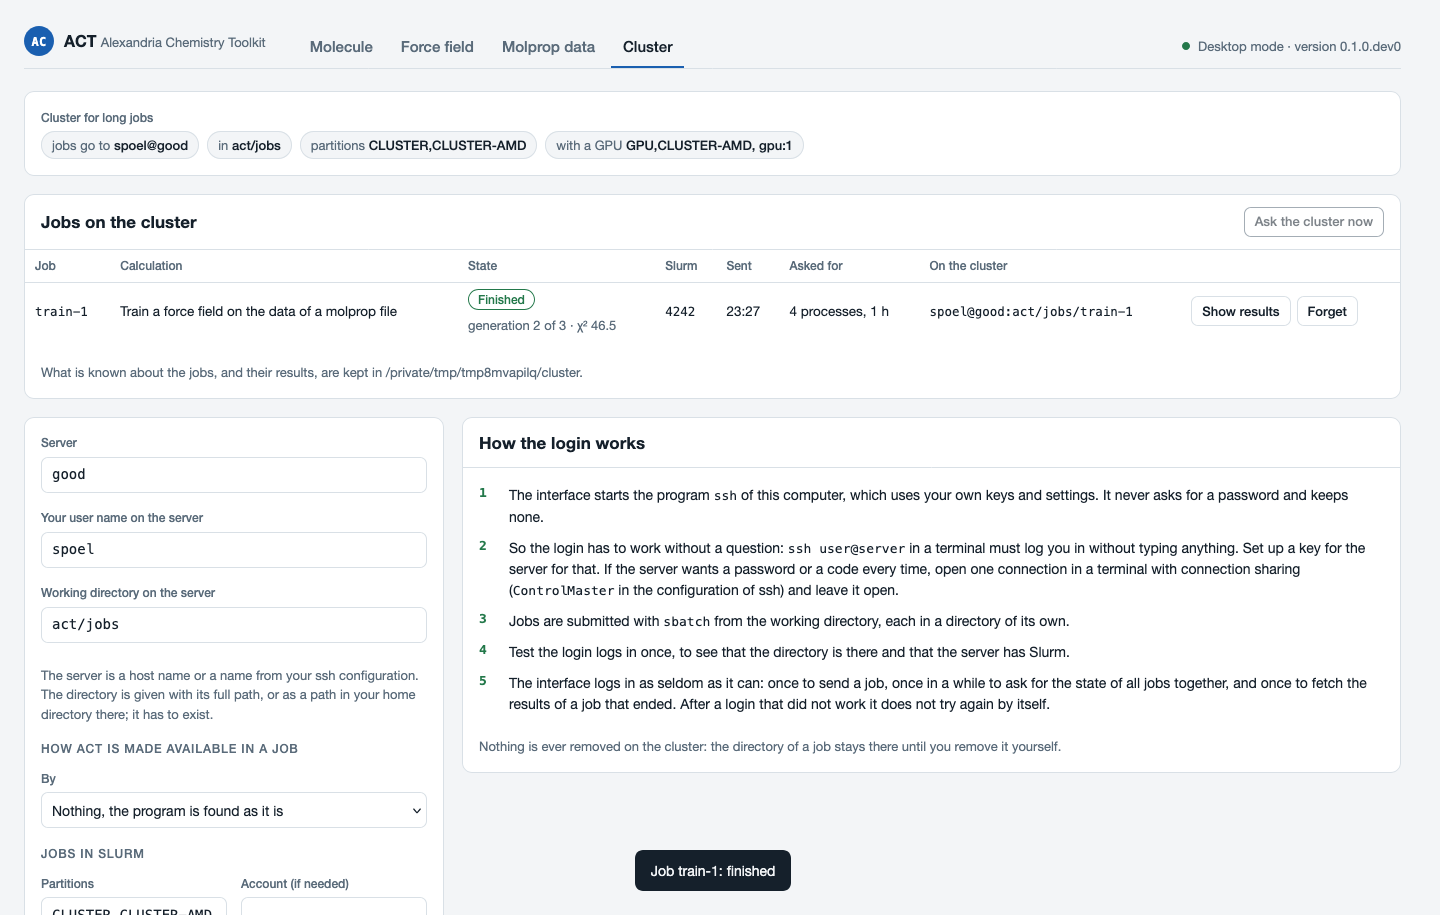
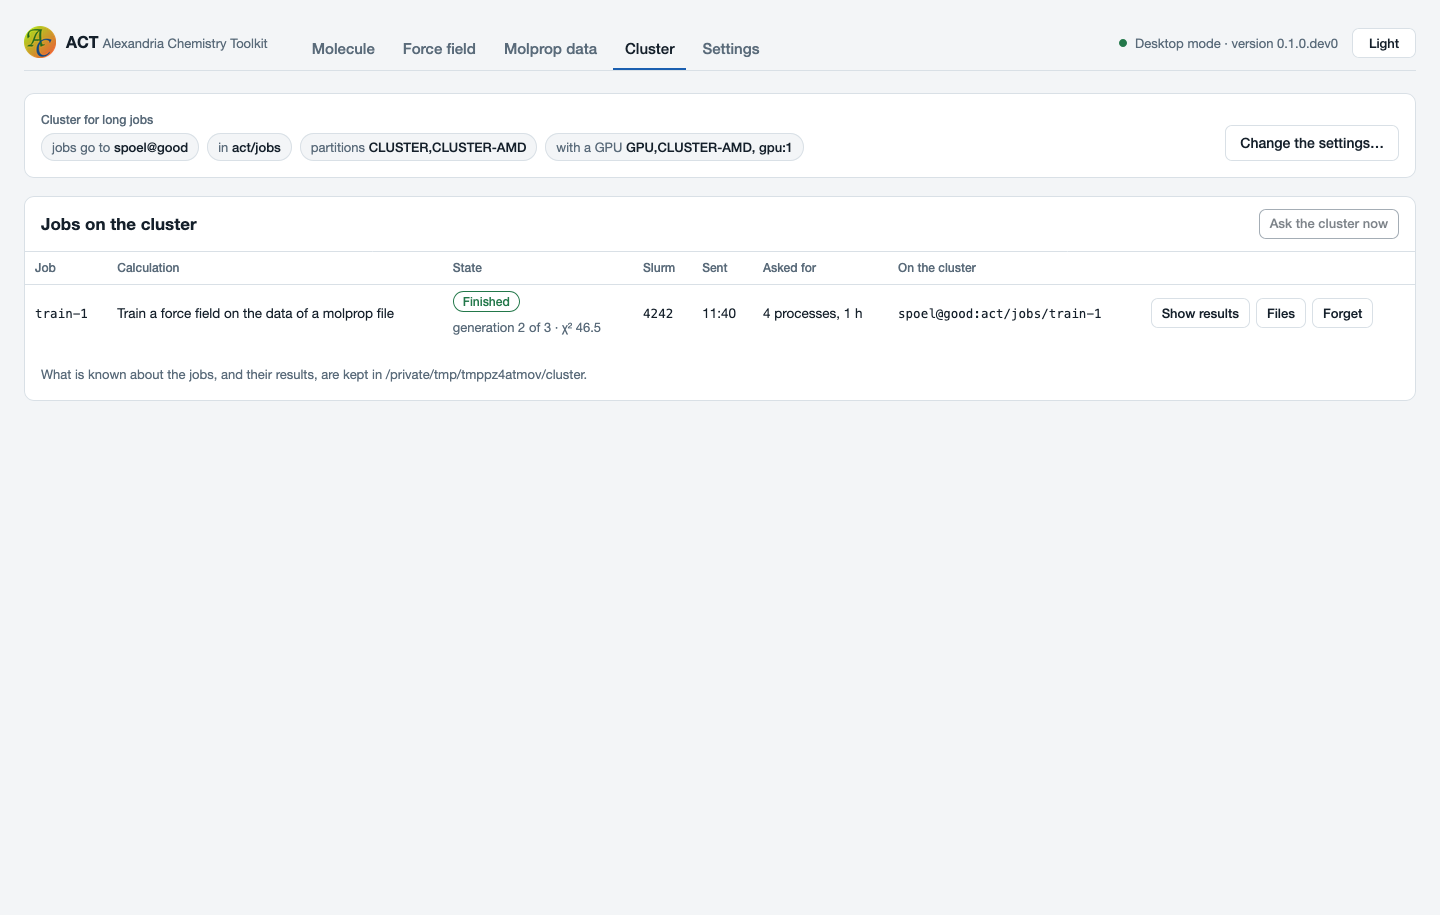
docs(gui): the interface of 1.95, with new pictures
The chapter on ACT-GUI describes the conda package act-gui and the
programs act-gui and actgui; the tabs Dimer scan and Second virial and
the spectrum as an xvg file; the fixed parameters of Generate and the
histograms of Geometry; the validation, the properties and the
calculations that are there twice in the molprop workspace; the tab
Settings with the screen modes; and the jobs on the cluster for the
second virial coefficient and OpenMM, with all their output files. The
pictures are new, taken by the tests of ACT-GUI in the browser, with two
more: a dimer scan and a histogram of a bond type.

diff --git a/docs/manual/userman/gui.rst b/docs/manual/userman/gui.rst
@@ -4,7 +4,7 @@
 The graphical user interface
 *****************************
 
-ACT-GUI is a user interface for ACT that runs in a web browser. A small server on your own computer runs the commands of *alexandria* through the Python package of :ref:`sec-python`, and a page shows the results: molecules in three dimensions with their charges, spectra, force fields, and how well a force field reproduces reference data. Long calculations can be sent from the page to a cluster on which you have an account. The interface is a repository of its own, `ACT-GUI`_, which takes over from the program *actgui* of ACT-utilities.
+ACT-GUI is a user interface for ACT that runs in a web browser. A small server on your own computer runs the commands of *alexandria* through the Python package of :ref:`sec-python`, and a page shows the results: molecules in three dimensions with their charges, spectra, force fields, and how well a force field reproduces reference data. Long calculations can be sent from the page to a cluster on which you have an account. The interface is a repository of its own, `ACT-GUI`_, which replaces the program *actgui* of ACT-utilities.
 
 Everything the interface does, it does by running *alexandria* with options that it shows or that this manual describes, so a calculation that was tried in the interface can be repeated on the command line or in a script.
 
@@ -13,14 +13,23 @@ Everything the interface does, it does by running *alexandria* with options that
 ========================
 Installing and starting
 ========================
-The interface needs ACT with its Python package, and Python 3.9 or newer with the packages *fastapi* and *uvicorn*. To save plots as PDF files it uses `plotXVG`_ when that is installed. From a copy of the repository:
+The conda package *act-gui* brings everything along: ACT with its Python package (the package *alexandria-python*), the web server and `plotXVG`_ for PDF files.
+
+.. code-block:: bash
+
+   conda install -c alexandriachemistry -c conda-forge act-gui
+   act-gui
+
+Without conda the interface needs ACT with its Python package, and Python 3.9 or newer with the packages *fastapi* and *uvicorn*; to save plots as PDF files it uses plotXVG when that is installed. From a copy of the repository:
 
 .. code-block:: bash
 
    pip install ".[plots]"
    act-gui
 
-*act-gui*, or *python -m act_gui*, prints an address and opens it in the browser. The server listens on your own computer only, and the address has a key without which it does not answer. Uploaded files and results are kept in a temporary directory that is removed when the program ends; *--data DIR* keeps them in a directory. *--no-browser* does not open a browser and *--port* chooses the port.
+The script *actgui* in the repository starts the interface from there without installing it, with the Python of the directory *.venv* there if there is one; the Python package of ACT and *alexandria* are then found through *PYTHONPATH* and *ACT_ALEXANDRIA*. An installed interface also has the program *actgui*, the name of the program it replaces.
+
+*act-gui*, *actgui* or *python -m act_gui* prints an address and opens it in the browser. The server listens on your own computer only, and the address has a key without which it does not answer. Uploaded files and results are kept in a temporary directory that is removed when the program ends; *--data DIR* keeps them in a directory. *--no-browser* does not open a browser and *--port* chooses the port.
 
 The interface finds *alexandria* as the Python package does: the program the package was installed with, or the one in the environment variable *ACT_ALEXANDRIA*. Calculations on more than one process need *mpirun*, *mpiexec* or *srun* in the *PATH*, or the launcher in *ACT_MPIEXEC*.
 
@@ -33,9 +42,11 @@ A molecule is given as a SMILES string or as a file, and is read with the defaul
 
 * *Charges*: the charges and the topology (*alexandria gentop*).
 * *Minimize*: an energy minimization (*minimize*), with the minimized structure on top of the original one, the RMSD and the energy terms.
-* *Normal modes*: the vibrations (*nma*) with the infrared spectrum, the animated modes and the thermochemistry.
+* *Normal modes*: the vibrations (*nma*) with the infrared spectrum, the animated modes and the thermochemistry. The spectrum can be saved as a PDF file or as the xvg file of *nma*.
 * *Simulate*: a short molecular dynamics simulation (*simulate*), with the energies plotted while it runs and the trajectory animated afterwards.
-* *OpenMM*: an archive with which the molecule is simulated with OpenMM and the same force field, see :ref:`sec-simulations`.
+* *OpenMM*: an archive with which the molecule is simulated with OpenMM and the same force field, see :ref:`sec-simulations`. With a cluster set, the simulation itself can run there (:ref:`sec-gui-cluster`).
+* *Dimer scan*: for a structure of two compounds, the interaction energy as a function of the distance, as the script *dimer_scan* of ACT-utilities computes it (:numref:`fig-gui-dimer-scan`). An atom of each compound is chosen (the closest pair is proposed), and for each distance the second compound is moved along the line between them and the dimer is minimized with these two atoms frozen, optionally with the bond lengths constrained. The plot grows while the scan runs; a click on a point shows the minimized dimer at that distance.
+* *Second virial*: the second virial coefficient of a dimer, B2(T), with its classical part and the corrections for the force and the torque (*alexandria b2*), on several processes or on a cluster.
 
 .. figure:: ../images/gui-molecule.png
    :name: fig-gui-molecule
@@ -44,14 +55,21 @@ A molecule is given as a SMILES string or as a file, and is read with the defaul
 
    The molecule workspace after a normal mode analysis of acetone. The atoms are coloured by charge; a click on a line under the spectrum or on a row of the table animates that vibration.
 
+.. figure:: ../images/gui-dimer-scan.png
+   :name: fig-gui-dimer-scan
+   :width: 100%
+   :align: center
+
+   A scan of the water dimer: the interaction energy against the distance between the two atoms that are frozen, and the minimized dimer at the point that was clicked.
+
 =========================
 The force field workspace
 =========================
 This workspace has one force field at a time, which is made there or opened from a file. Each step writes a new file that can be saved and that the other workspaces can use.
 
-* *Generate* makes a new force field with *alexandria gen_ff* from a few choices: the charge model, the potentials with their combination rules, the atom types and which of them get a shell, and virtual sites.
+* *Generate* makes a new force field with *alexandria gen_ff* from a few choices: the charge model, the potentials with their combination rules, the atom types and which of them get a shell, and virtual sites. Parameters with a known value are fixed at that value from a file with a line *interaction|potential|atom type|parameter|value|unit* for each.
 * *Virtual sites* defines sites by picking two, three or four atoms of a molecule in the viewer and choosing the kind of site; the site is shown where it would be. The sites can be saved in the file format of *gen_ff -vs*, and such a file can be opened.
-* *Geometry* takes bond lengths, angles and dihedral angles from the compounds of a molprop file (*geometry_ff*): a file of its own, or the file of the molprop workspace with the compounds that are ticked there.
+* *Geometry* takes bond lengths, angles and dihedral angles from the compounds of a molprop file (*geometry_ff*): a file of its own, or the file of the molprop workspace with the compounds that are ticked there. A histogram of each bond, angle or dihedral type shows the values (:numref:`fig-gui-geometry`); a click on a bar lists the compounds, calculations and atoms that the values in it come from, which helps to find a structure that is not right.
 * *Edit and validate* lists the parameters with their value, bounds and whether they are trained (:numref:`fig-gui-forcefield`), changes them with *edit_ff*, and shows the problems that *edit_ff -validate* finds. Of a particle type the charge and the width of its distribution can be changed, not the mass.
 * *Compare* lists what differs between the force field of the workspace and another one: parameters with another value, with other bounds or another way of training, and those that only one of the two has.
 
@@ -62,10 +80,17 @@ This workspace has one force field at a time, which is made there or opened from
 
    The parameters of a force field. The bar shows where a value is between its bounds; a click on a row opens the form to change the value, the bounds or whether the parameter is trained.
 
+.. figure:: ../images/gui-geometry.png
+   :name: fig-gui-geometry
+   :width: 100%
+   :align: center
+
+   The histogram of a bond type from *geometry_ff*, with the compounds and atoms of the values in the bar that was clicked.
+
 =======================
 The molprop workspace
 =======================
-A molprop file with compounds and their reference data is opened and checked (*edit_mp -validate*). The page lists the compounds, the number of values of each property and the problems that were found. The table of compounds also says what each compound is used for: training, testing or nothing. A click changes that for one compound, and the buttons above the table for all compounds that the table shows.
+A molprop file with compounds and their reference data is opened and checked (*edit_mp -validate*). Under the name of the file the page shows the problems that were found and the number of values of each property; a click on a property shows only the compounds that have it. Calculations that are in the file twice with the same results, which *train_ff* uses once, are reported, and *Remove them and save* writes the file without them (*edit_mp -o*). The table of compounds can be sorted by each column, and a click on a compound shows its details under the table. The table also says what each compound is used for: training, testing or nothing. A click changes that for one compound, and the buttons above the table for all compounds that the table shows.
 
 **Selection files.** The choices of the table make the selection file that *train_ff* reads with *-sel*, see :ref:`sec-files`: a line for each compound that is used, with *Train* or *Test*. The box in front of a compound says whether it is used, and the box in the header does so for all compounds that the table shows, which can be limited to those that have values of one property. For a file with dimers the card *Selection file* lists the monomers, and ticking monomers chooses the dimers they are in: with the dimers A#B, A#C and B#C, ticking only A gives A#B and A#C but not B#C. The other setting uses a dimer only when all its monomers are ticked. *Draw at random* uses a percentage of the ticked compounds for testing. *Save* writes the file, named after the molprop file with the extension *.dat*, and *Open* reads a selection file that exists already: the table then says what the file says, and compounds of the molprop file that the selection does not have are not used. A comparison or a training, on your own computer or on a cluster, uses what the table says at that moment.
 
@@ -91,12 +116,17 @@ The page follows a training with a plot of :math:`\chi^2` (:numref:`fig-gui-trai
 
    A short training: the lowest :math:`\chi^2` so far, and the parameters of the trained force field.
 
+==================
+Settings
+==================
+The tab *Settings* has the screen mode and the cluster for long jobs. The screen is light, dark (white on black) or hippy (yellow on dark purple, with orange borders); the button at the right of the top bar goes to the next mode. The choice is kept with the other settings, and the page starts in it the next time.
+
 .. _sec-gui-cluster:
 
 ==================
 Jobs on a cluster
 ==================
-Long calculations, a comparison with a large file or a training, can run on a Slurm cluster on which you have an account. In the tab *Cluster* you give the name of the server, your user name there and a working directory; how ACT is made available in a job (a module, a file that the shell reads, a conda environment, or nothing); the partitions for jobs with and without a GPU; and the name of the program there, *alexandria* or *alexandria_d*. The settings are kept in the file *act-gui/settings.json* in your configuration directory.
+Long calculations, a comparison with a large file, a training, the second virial coefficient or a simulation with OpenMM, can run on a Slurm cluster on which you have an account. In the tab *Settings* you give the name of the server, your user name there and a working directory; how ACT is made available in a job (a module, a file that the shell reads, a conda environment, or nothing); the partitions for jobs with and without a GPU; and the name of the program there, *alexandria* or *alexandria_d*. The settings are kept in the file *act-gui/settings.json* in your configuration directory.
 
 The interface logs in with the *ssh* program of your computer, which uses your own keys and settings. It never asks for a password and keeps none, so the login has to work without a question: set up a key for the server, or open one connection in a terminal with connection sharing if the server asks for a password or a code each time. *Test the login* logs in once and tells whether the directory is there and the server has Slurm.
 
@@ -105,16 +135,16 @@ A cluster may block an account that logs in often, so the interface logs in as s
 * Before anything is sent, the page shows the job: the script for Slurm, the command and the files that go along. The files get a name after their option, such as *ff.xml*, so no name of a file on your computer goes to the cluster.
 * Sending a job is one login. The files go to a directory of the job below the working directory, where *sbatch* is started.
 * One login asks for the state of all jobs together, not more often than the settings say (every two minutes by default), and only while the page is open. A training also tells how far it is (:numref:`fig-gui-cluster`).
-* When a job has ended, one more login fetches its results, which are then shown as those of a calculation on your own computer.
+* When a job has ended, one more login fetches its results, which are then shown as those of a calculation on your own computer. All output files come back, also those that the program writes under a name of its own, such as the log file of *train_ff*; *Files* lists them and saves each.
 * After a login that did not work the cluster is not asked again until you press the button.
 
 What is known about the jobs is kept on your computer, so they are still listed when the interface is started again. *Stop* cancels a job with *scancel*. Nothing is ever removed on the cluster: the directory of a job stays there until you remove it.
 
-The program on the cluster has to know the options that the *alexandria* of your computer uses, so the two should be of the same version; a training needs *train_ff -progress*.
+The program on the cluster has to know the options that the *alexandria* of your computer uses, so the two should be of the same version; a training needs *train_ff -progress*. A simulation with OpenMM runs the script of the archive with *python3*, so OpenMM and ACT-utilities have to be in the environment that the settings load.
 
 .. figure:: ../images/gui-cluster.png
    :name: fig-gui-cluster
    :width: 100%
    :align: center
 
-   The jobs on the cluster, with how far a training was when the cluster was last asked, and the settings below.
+   The jobs on the cluster, with how far a training was when the cluster was last asked.
